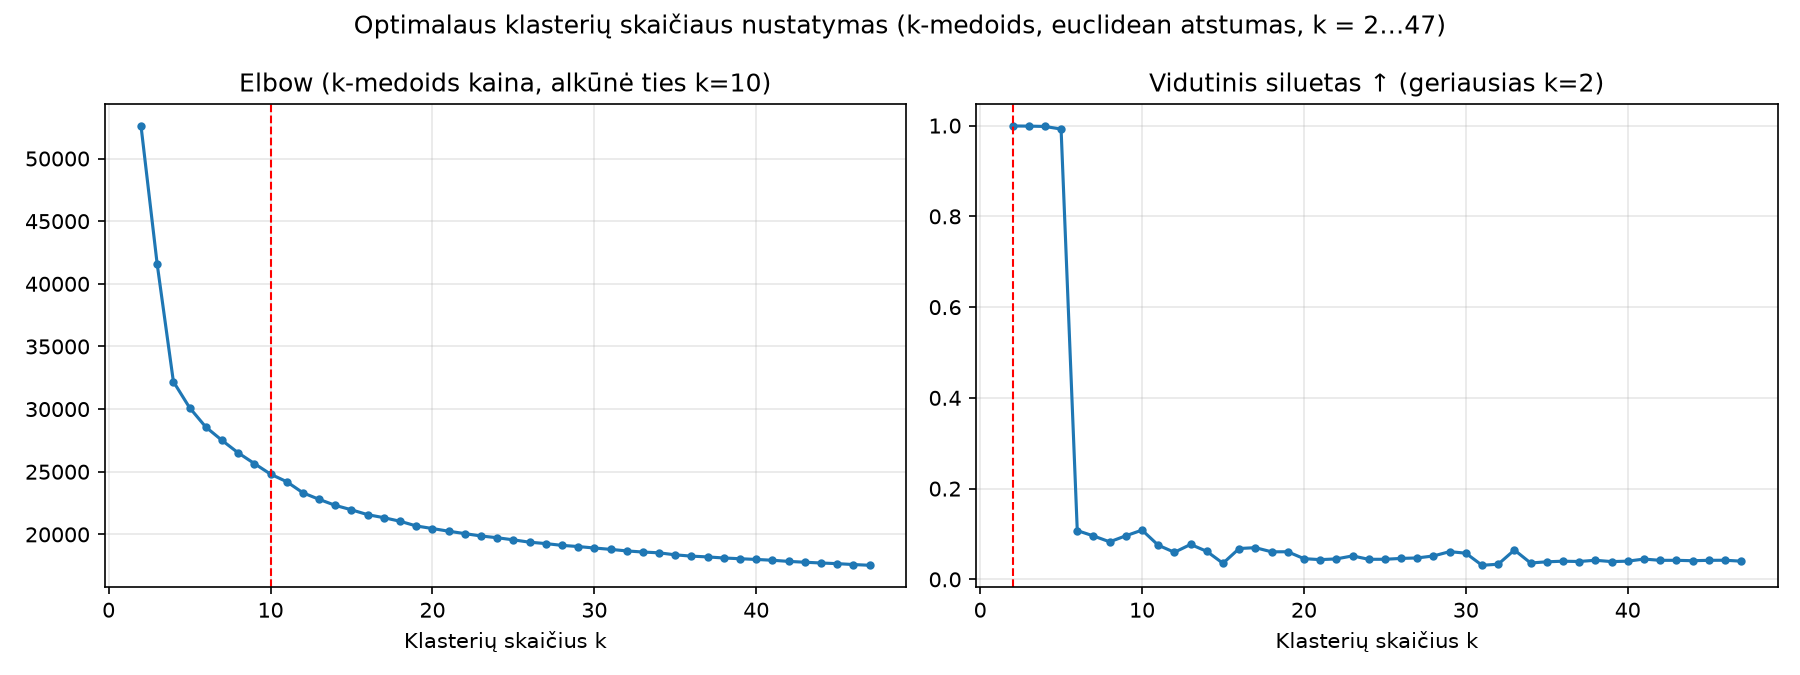
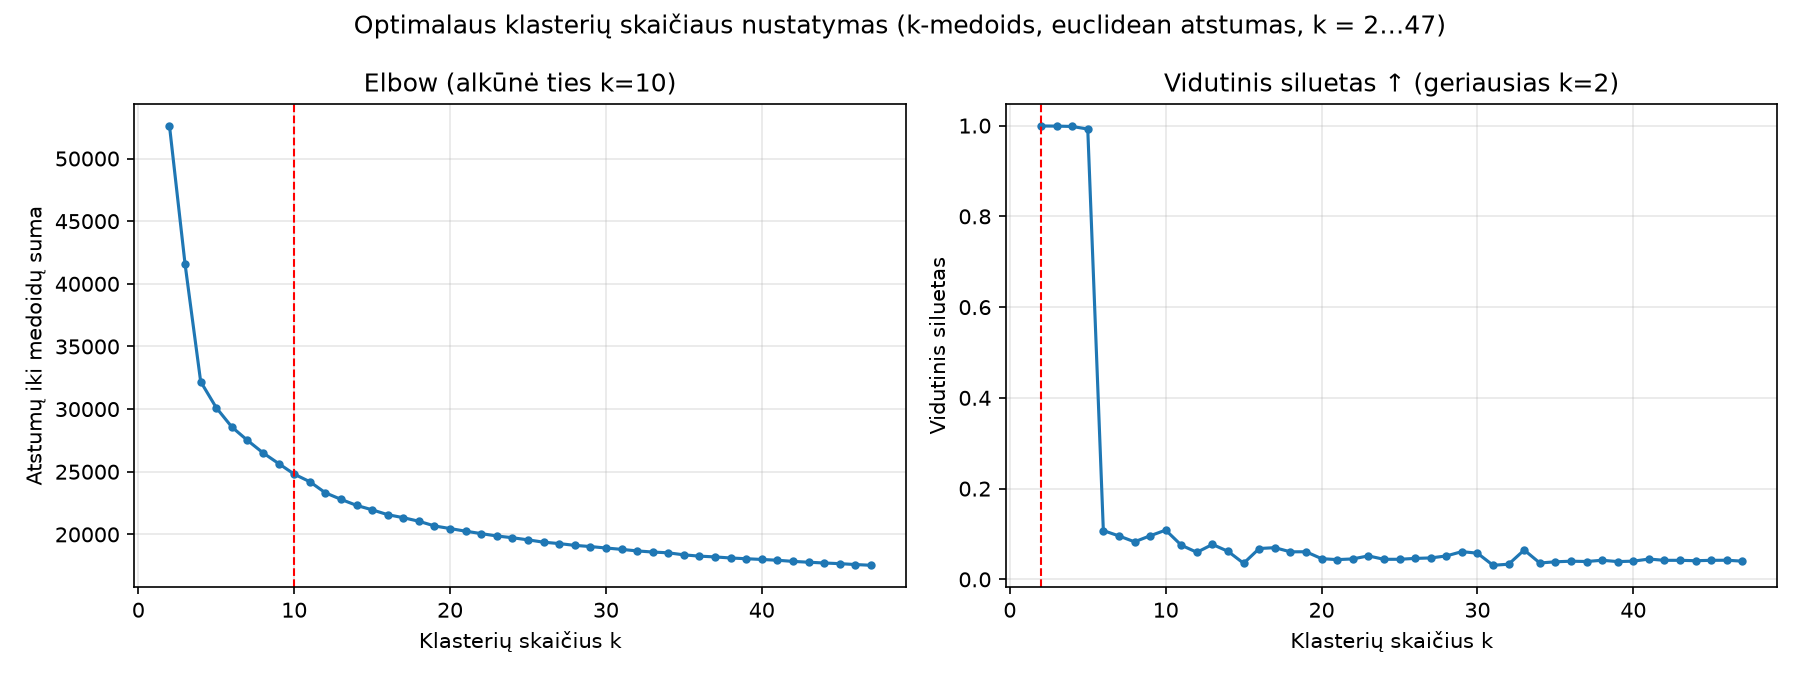
k medoids graphics with k = 15

diff --git a/lab3_tyrimas.py b/lab3_tyrimas.py
@@ -129,32 +129,39 @@ def find_optimal_k(df, metric='euclidean', k_max=None, random_state=0,
     os.makedirs(out_dir, exist_ok=True)
     tab.to_csv(f"{out_dir}/kmedoids_{metric}_k_lentele.csv", index=False)
 
-    best = {
-        'cost': elbow_point(tab['k'].values, tab['cost'].values),
-        'silhouette': int(tab.loc[tab['silhouette'].idxmax(), 'k']),
-    }
-
-    titles = {
-        'cost': f"Elbow (k-medoids kaina, alkūnė ties k={best['cost']})",
-        'silhouette': f"Vidutinis siluetas ↑ (geriausias k={best['silhouette']})",
-    }
-    fig, axes = plt.subplots(1, 2, figsize=(12, 4.5))
-    for ax, col in zip(axes, ['cost', 'silhouette']):
-        ax.plot(tab['k'], tab[col], 'o-', markersize=3)
-        if col in best:
+    def plot_k(sub, suffix):
+        best = {
+            'cost': elbow_point(sub['k'].values, sub['cost'].values),
+            'silhouette': int(sub.loc[sub['silhouette'].idxmax(), 'k']),
+        }
+        titles = {
+            'cost': f"Elbow (alkūnė ties k={best['cost']})",
+            'silhouette': f"Vidutinis siluetas ↑ (geriausias k={best['silhouette']})",
+        }
+        ylabels = {'cost': 'Atstumų iki medoidų suma', 'silhouette': 'Vidutinis siluetas'}
+        fig, axes = plt.subplots(1, 2, figsize=(12, 4.5))
+        for ax, col in zip(axes, ['cost', 'silhouette']):
+            ax.plot(sub['k'], sub[col], 'o-', markersize=3)
             ax.axvline(best[col], color='red', linestyle='--', linewidth=1)
-        ax.set_title(titles[col])
-        ax.set_xlabel('Klasterių skaičius k')
-        ax.grid(alpha=0.3)
-    fig.suptitle(f"Optimalaus klasterių skaičiaus nustatymas (k-medoids, {metric} atstumas, "
-                 f"k = 2…{k_max})")
-    fig.tight_layout()
-    fig.savefig(f"{out_dir}/kmedoids_{metric}_k_parinkimas.png", dpi=150)
-    plt.close(fig)
+            ax.set_title(titles[col])
+            ax.set_xlabel('Klasterių skaičius k')
+            ax.set_ylabel(ylabels[col])
+            ax.grid(alpha=0.3)
+        fig.suptitle(f"Optimalaus klasterių skaičiaus nustatymas (k-medoids, {metric} atstumas, "
+                     f"k = 2…{sub['k'].max()})")
+        fig.tight_layout()
+        fig.savefig(f"{out_dir}/kmedoids_{metric}_k_parinkimas{suffix}.png", dpi=150)
+        plt.close(fig)
+        return best
+
+    # Visas intervalas k = 2…k_max ir priartintas vaizdas k = 2…15
+    best = plot_k(tab, '')
+    best_15 = plot_k(tab[tab['k'] <= 15], '_iki15')
 
     print(tab.round(4).to_string(index=False))
-    print("Geriausi k:", best)
-    return tab, best
+    print(f"Geriausi k (k = 2…{k_max}):", best)
+    print("Geriausi k (k = 2…15):", best_15)
+    return tab, best, best_15
 
 
 if __name__ == '__main__':
